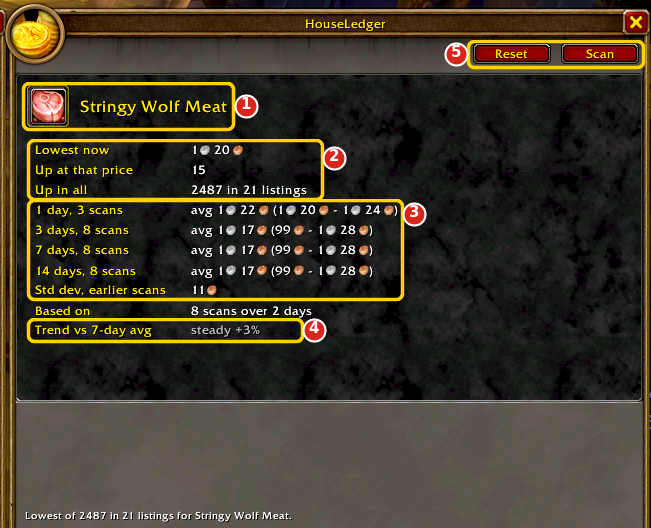
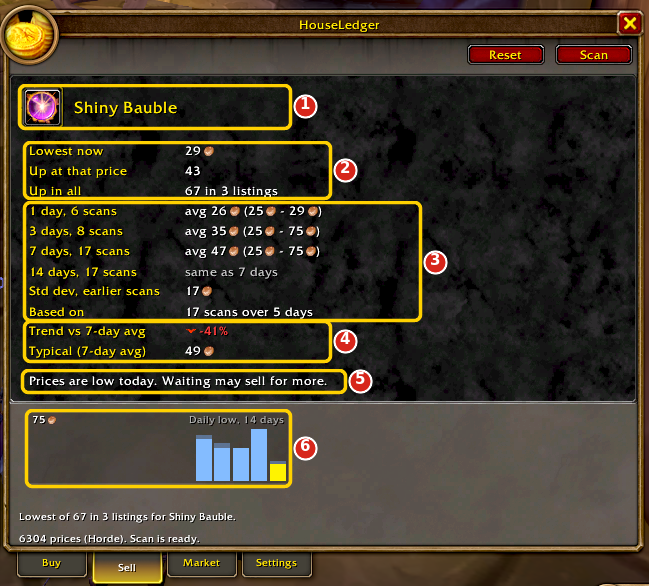
docs: annotated HouseLedger screenshots for 0.4.0
The owner retook every HouseLedger screen for the release. Buy and Market
show filters, sortable columns and the 14-day chart; Sell, Price Check,
Settings and the bag button are new, each with a numbered legend.

diff --git a/README.md b/README.md
@@ -55,25 +55,51 @@ Auction house prices, remembered. One Scan a day builds a 14-day price history o
 - **Never** buys, posts or scans by itself.
 
 <p align="center">
-  <img src="docs/screenshots/houseledger-buy.png" alt="HouseLedger Buy tab: search results with price, available, 7-day average and trend, and the saved stats for the selected row" width="420">
-  <img src="docs/screenshots/houseledger-sell.png" alt="HouseLedger Sell tab: lowest price now, how many are up, and saved averages over 1, 3, 7 and 14 days with the trend" width="420">
+  <img src="docs/screenshots/houseledger-buy.png" alt="HouseLedger Buy tab: name search, quality and item level filters, sortable columns with an ilvl column, and a clicked row's saved prices with its 14-day chart" width="420">
+  <img src="docs/screenshots/houseledger-market.png" alt="HouseLedger Market tab: the Biggest drops view from the last scan, with name, quality and item level filters and a clicked row's 14-day chart" width="420">
 </p>
 
 **Buy tab** (left):
-1. **Search:** type a name and click **Search**. **Clear** empties the list. Under it, pick a **quality** and an **ilvl** range. With a quality picked you can search with no name.
-2. **Scan:** saves today's prices for the whole auction house (every 15 minutes at most; the button counts down the wait).
-3. **Price** is the cheapest one up right now; **Avg 7d** is your saved 7-day average. Click any heading to sort by it, and again to reverse.
-4. **Trend:** a green arrow means cheaper than usual, a red one pricier, grey "steady" about the same, and a ⭐ marks a deal.
-5. **Click a row** for its saved prices over 1, 3, 7 and 14 days, with a 14-day chart beside them when the window is wide enough.
+1. **Search:** type a name and click **Search**. **Clear** empties the list and the filters.
+2. **Filters:** pick a **quality** and an **ilvl** range. With a quality picked you can search with no name.
+3. **Columns:** click a heading to sort by it, and again to reverse. **Price** is the cheapest up right now, **Avg 7d** your saved 7-day average, and **Trend** a green arrow for cheaper than usual, red for pricier, grey "steady" about the same, ⭐ for a deal.
+4. **Scan:** saves today's prices for the whole auction house. The button counts down the 15 minutes until you can scan again.
+5. **Click a row** for its saved prices over 1, 3, 7 and 14 days.
+6. **Its 14-day chart:** each day's lowest price, today in gold, with a faint band up to that day's highest.
 
-**Sell tab** (right):
+**Market tab** (right): your last scan, with no searching. It reads only saved prices and never sends anything.
+1. **View:** Deals, Biggest drops or Biggest rises, and how long ago you scanned.
+2. **Filters:** name, quality and ilvl (the item's base level).
+3. **Columns:** sortable like Buy. **Scanned** is the price at your last scan.
+4. **Click a row** for its day lines and (5) its chart.
+
+<p align="center">
+  <img src="docs/screenshots/houseledger-sell.png" alt="HouseLedger Sell tab: a stack's lowest price now, how many are up, its saved history, trend and typical price, a plain-words verdict and a 14-day chart" width="420">
+  <img src="docs/screenshots/houseledger-pricecheck.png" alt="HouseLedger Price Check window: a name search over saved prices, the matching items with price and trend, and one item's day lines and 14-day chart" width="290">
+</p>
+
+**Sell tab** (left):
 1. **Drop an item** here, or right-click it in your bags.
 2. **Right now:** the lowest price up, how many are at that price, and how many in all.
-3. **History:** your saved averages and ranges over 1, 3, 7 and 14 days, and a 14-day chart.
-4. **Trend** against your 7-day average, the typical price, and a plain-words line such as "Prices are high today. A good time to sell."
-5. **Reset** empties the tab; **Scan** saves today's prices.
+3. **History:** your saved averages and ranges over 1, 3, 7 and 14 days.
+4. **Trend** against your 7-day average, and the **typical** price.
+5. **In plain words:** whether today's price is high, low or about normal.
+6. **Its 14-day chart.** **Reset** empties the tab.
 
-**Market tab:** pick **Deals**, **Biggest drops** or **Biggest rises** at your last scan from the dropdown. Filter by name, quality and ilvl (the item's base level). It reads only your saved prices, so it never sends a search. Click a row for its 1, 3, 7 and 14 days. Item names fill in from your next scan.
+**Price Check** (right): type `/pc` (or `/pricecheck`) anywhere, no auction house needed.
+1. **Search** your saved prices by name.
+2. **Results:** the last price and trend.
+3. **Click a result** for its day lines and (4) its chart.
+
+<p align="center">
+  <img src="docs/screenshots/houseledger-settings.png" alt="HouseLedger Settings tab: tooltip prices, day lines without Shift, and the Price Check button" width="420">
+  <img src="docs/screenshots/houseledger-bags.png" alt="The Price Check button above the bag window" width="320">
+</p>
+
+**Settings tab** (left):
+1. **Tooltip prices** on or off.
+2. **Day lines on tooltips** without holding Shift.
+3. **The Price Check button** above your bags (right) on or off.
 
 <p align="center"><sub>Game art in the screenshots © Blizzard Entertainment, Inc.</sub></p>
 
